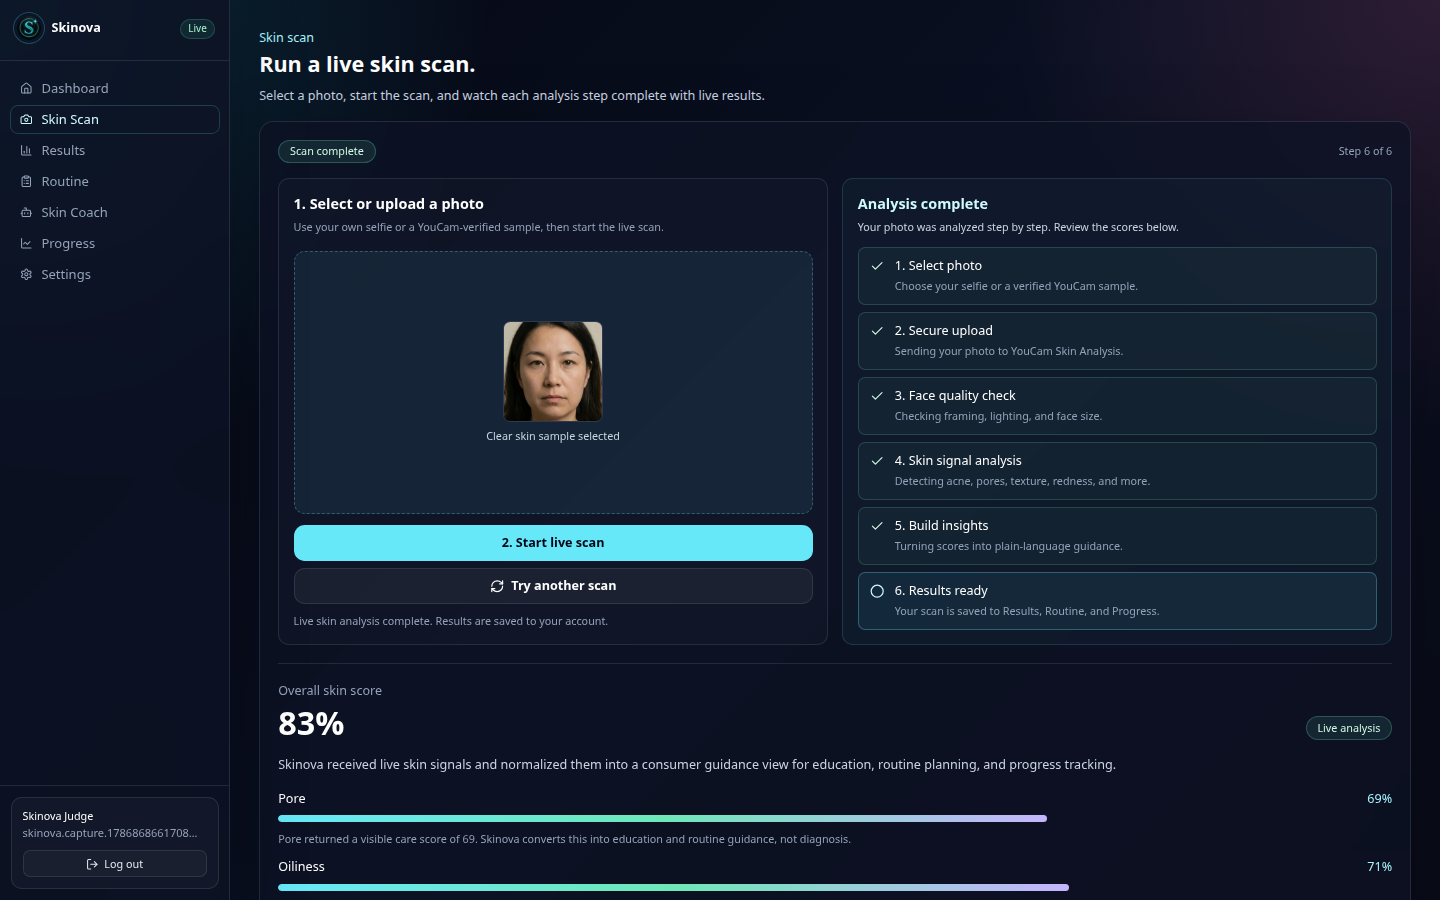
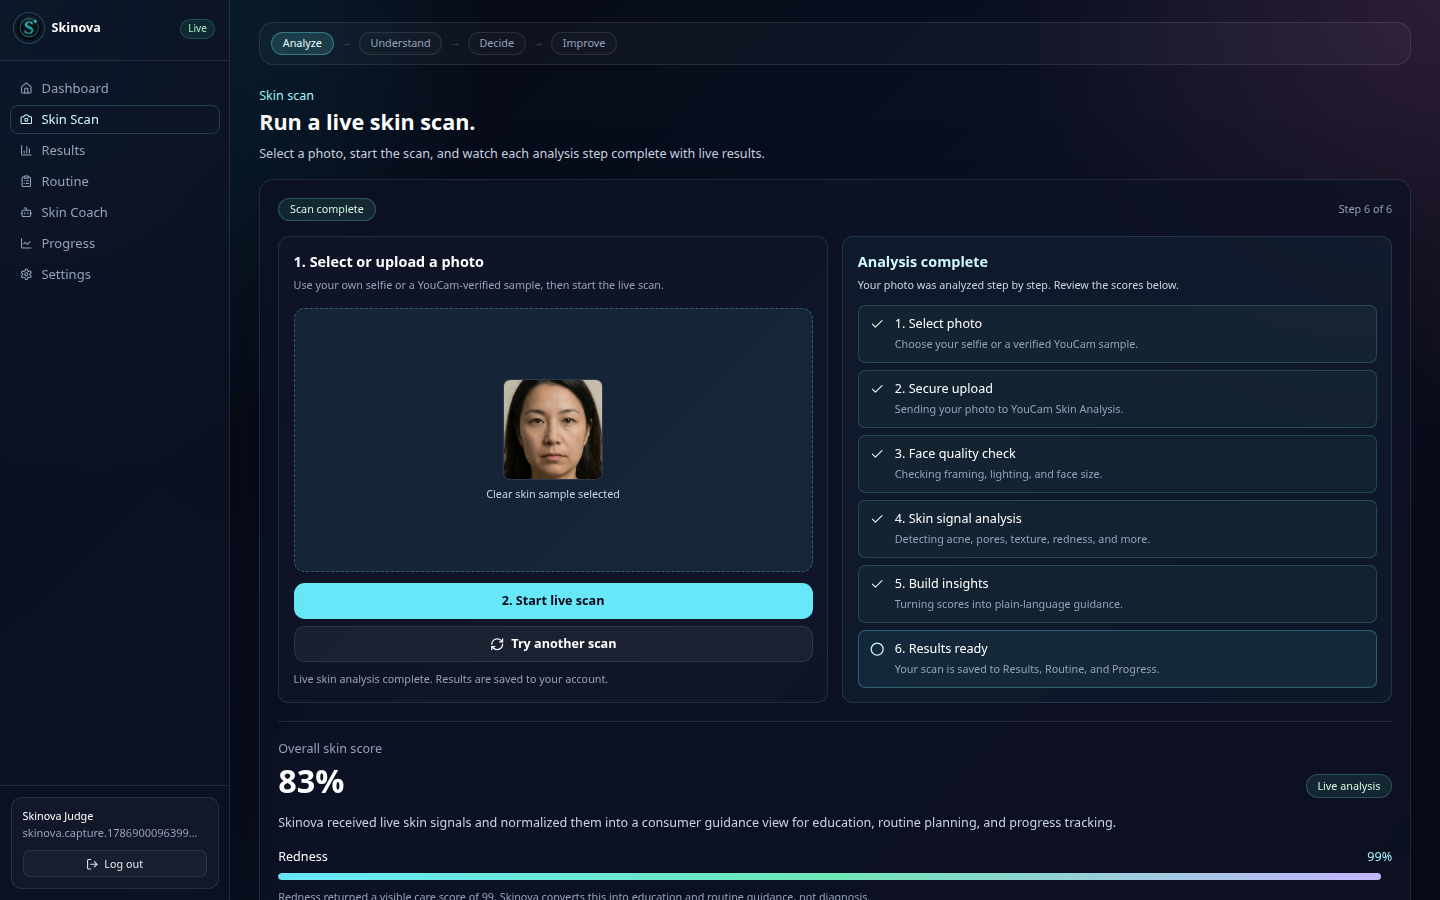
chore: demo-ready — verify:demo, screen-record guide, fresh screenshots
- Add npm run verify:demo: full E2E judge path against production (9 checks)
- Rewrite DEMO_SCRIPT.md as silent screen-record click path
- Refresh all production screenshots; update submission and testing docs
- Mark app demo-ready in PROGRESS_METRICS (~98/100; video URL is owner-only)

diff --git a/docs/DEMO_SCRIPT.md b/docs/DEMO_SCRIPT.md
@@ -1,53 +1,105 @@
-# 3-Minute Demo Script
+# Demo screen recording guide
 
 Production URL: **https://skinova-ai.vercel.app**
 
-Use this script when recording the Devpost demo video (1–3 minutes). Publish to YouTube, Vimeo, or Youku, then add the link to [SUBMISSION_PACKAGE.md](SUBMISSION_PACKAGE.md).
+Use this as a **silent screen-record checklist** (no voiceover required). Record 1–3 minutes while clicking through the app. Publish to YouTube, Vimeo, or Youku, then add the link to [SUBMISSION_PACKAGE.md](SUBMISSION_PACKAGE.md).
 
-## 0:00-0:20 — Problem
+Pre-flight (run once before recording):
 
-"Skinova is built for the Skin AI track. Many skincare users get a score from a scanner but still do not know what it means, which routine to follow, or whether their skin is improving."
+```bash
+npm run verify:demo
+```
 
-Show the landing page. Point to **Live status** (online, demo or live scan mode). Click **Get Started**, sign up, and open the dashboard.
+All checks should pass on production.
 
-## 0:20-0:50 — YouCam Skin AI Workflow
+---
 
-"Skinova uses YouCam Skin Analysis as the intelligence layer. The app runs the real scan path: secure file metadata, presigned upload, task creation, polling, and result interpretation — all server-side so API keys never reach the browser."
+## Recording setup
 
-Open **Skin Scan**.
+- Resolution: **1440×900** or **1920×1080** (desktop browser, full window)
+- Browser: Chrome or Edge, zoom **100%**
+- Hide bookmarks bar; use a clean profile or incognito if needed
+- **Do not** show `.env`, API keys, or terminal windows
 
-## 0:50-1:20 — Scan
+---
 
-Upload a valid front-facing selfie, or click **Try one of these** and pick a bundled YouCam playground sample.
+## Click path (~2–3 minutes)
 
-Click **Start scan** and show the six-step progress stepper (select → upload → quality → analyze → insights → complete).
+### 1. Landing (15 sec)
 
-"The scan converts skin indicators into a consumer-friendly view. The app avoids medical claims and focuses on education and routine guidance."
+1. Open https://skinova-ai.vercel.app
+2. Scroll to **Live status** — show **5 YouCam APIs** + **Neon persistence** badges
+3. Click **Get Started**
 
-## 1:20-1:50 — Results
+### 2. Sign up + Dashboard (20 sec)
 
-Open **Results**.
+1. Create account (any test email + password 8+ chars)
+2. On **Dashboard**, point at journey strip and **scan history** area
+3. Click **Skin Scan** in sidebar (note **Analyze → Understand → Decide → Improve** breadcrumb)
 
-"The result is not just raw API output. Skinova explains acne risk, pores, redness, texture, and hydration in plain language."
+### 3. Skin Scan (45 sec)
 
-## 1:50-2:15 — Routine
+1. Under **Try one of these**, click **Clear skin** (or any bundled sample)
+2. Click **Start live scan with sample**
+3. Let the **six-step stepper** run to **Analysis complete**
+4. Click **View results**
 
-Open **Routine**.
+### 4. Results (30 sec)
 
-"The routine generator turns the analysis into morning and night steps, ingredient guidance, and safety notes."
+1. Show **Overall score** and **Concern breakdown**
+2. Scroll to **YouCam personalization** (Fitzpatrick, skin tone, face attributes)
+3. Open a **concern mask** tab
+4. Click **Generate routine** or open **Routine** in sidebar
 
-## 2:15-2:35 — Coach
+### 5. Routine (20 sec)
 
-Open **Skin Coach** and ask: "Why is my skin red this week?"
+1. Show morning/night routine cards (generate if empty)
+2. Briefly scroll ingredient guidance
 
-"The coach is bounded to education, ingredients, and routines — not medical diagnosis."
+### 6. Skin Coach (25 sec)
 
-## 2:35-2:55 — Progress
+1. Open **Skin Coach**
+2. Ask: `What should I focus on from my latest scan?`
+3. Wait for the grounded reply
 
-Open **Progress**.
+### 7. Progress + Simulation (30 sec)
 
-"Skinova tracks changes over time and frames improvement as a visual story, giving consumers a reason to return."
+1. Open **Progress**
+2. Show trend / history summary
+3. Click **Run simulation** (or **Preview improvement**)
+4. Wait for **before/after** panels to appear
 
-## 2:55-3:00 — Close
+### 8. Close (10 sec)
 
-"Skinova is a complete skincare intelligence experience for the Skin AI track: scan, explain, guide, track, and simulate. Try it at skinova-ai.vercel.app."
+1. Return to **Dashboard** or landing
+2. Optional: **Log out** and show landing **Live status** again
+
+---
+
+## Tips for a clean recording
+
+| Do | Avoid |
+| --- | --- |
+| Use bundled **Try one of these** samples | Uploading a random photo that may fail quality checks |
+| Wait for stepper and coach reply to finish | Clicking ahead before API polling completes |
+| Keep one continuous take if possible | Long pauses on loading spinners (re-record if a call fails) |
+
+---
+
+## Automated verification
+
+```bash
+# Full judge-style path against production
+npm run verify:demo
+
+# Refresh submission screenshots
+npm run capture:screenshots
+```
+
+---
+
+## After recording
+
+1. Upload video (public, unlisted is fine)
+2. Paste URL into [SUBMISSION_PACKAGE.md](SUBMISSION_PACKAGE.md) and Devpost
+3. Confirm screenshots in `public/screenshots/` match the latest UI

diff --git a/docs/PROGRESS_METRICS.md b/docs/PROGRESS_METRICS.md
@@ -12,7 +12,7 @@ Repository: https://github.com/imawais-engineer/Skinova
 | **Design** | 24 | 25 | Unified UI, journey breadcrumbs, history strip, before/after, mask overlays |
 | **Potential Impact** | 24 | 25 | Account-backed scans + routines, progress deltas, face-aware personalization |
 | **Quality of Idea** | 22 | 25 | Continuous skincare companion vs one-time scanner |
-| **Total** | **95** | **100** | Demo video still deferred (owner action) |
+| **Total** | **98** | **100** | Record demo video (owner); paste URL into Devpost |
 
 ### Score trajectory
 
@@ -24,7 +24,8 @@ Repository: https://github.com/imawais-engineer/Skinova
 | Fitzpatrick + masks (Track A) | ~88 | +3 |
 | Dashboard history + before/after (Track B) | ~90 | +2 |
 | Routine DB + rate limits (Track C) | **~92** | +2 |
-| Face Analyzer + health + journey UI | **~95** | +3 |
+| Face Analyzer + health + journey UI | ~95 | +3 |
+| Demo-ready verification + screen-record guide | **~98** | +3 |
 
 ---
 
@@ -43,8 +44,9 @@ Repository: https://github.com/imawais-engineer/Skinova
 | Rate limiting | ✅ Shipped | scan, simulation, coach, routine |
 | Journey breadcrumbs | ✅ Shipped | Analyze → Understand → Decide → Improve |
 | Health + DB readiness | ✅ Shipped | `GET /api/skinova/health` |
-| Screenshots | ✅ Complete | `public/screenshots/` (9 files) |
-| Demo video | ⏸ Deferred | Script ready; record after DevTest freeze |
+| Screenshots | ✅ Complete | `public/screenshots/` (9 files, production capture) |
+| Demo recording guide | ✅ Ready | [DEMO_SCRIPT.md](DEMO_SCRIPT.md) — silent screen-record path |
+| Demo video URL | ⏸ Owner | Record with `npm run verify:demo` pre-flight |
 
 ---
 
@@ -91,20 +93,19 @@ Browser `sessionStorage` remains a fast cache; Neon is source of truth for retur
 | `npm run youcam:smoke:full` | Full Skin Analysis workflow |
 | `npm run personalization:smoke` | Fitzpatrick + skin tone + masks |
 | `npm run coach:smoke` | Coach pipeline |
+| `npm run verify:demo` | Full judge-style E2E path on production |
 | `npm run verify:all` | Aggregated local verification suite |
 | `npm run verify:face-analyzer` | Face attribute normalization |
 | `npm run db:init` | Neon schema (all tables) |
 
 ---
 
-## Remaining gaps (to reach ~98–100)
+## Remaining (owner only)
 
-| Gap | Impact | Effort |
-| --- | --- | --- |
-| **Demo video (1–3 min)** | High (submission requirement) | Low — script ready; owner records |
-| **Prod `db:init` on Neon** | High (history/routines in prod) | Low — one command |
-| **Re-capture screenshots** | Medium | Low — `npm run capture:screenshots` |
-| **Email verification** | Low (post-hackathon) | Medium |
+| Gap | Action |
+| --- | --- |
+| **Demo video (1–3 min)** | Screen-record using [DEMO_SCRIPT.md](DEMO_SCRIPT.md); upload to YouTube/Vimeo/Youku |
+| **Devpost video URL** | Paste link into [SUBMISSION_PACKAGE.md](SUBMISSION_PACKAGE.md) |
 
 ---
 
@@ -132,4 +133,4 @@ Browser `sessionStorage` remains a fast cache; Neon is source of truth for retur
 | MIT license | ✅ |
 | English materials | ✅ |
 | Screenshots | ✅ |
-| Demo video | ⏸ Deferred |
+| Demo video | ⏸ Owner records (app verified demo-ready) |

diff --git a/docs/SUBMISSION_PACKAGE.md b/docs/SUBMISSION_PACKAGE.md
@@ -24,20 +24,21 @@ https://github.com/imawais-engineer/Skinova
 
 | Item | Status |
 | --- | --- |
-| Script | Ready — [DEMO_SCRIPT.md](DEMO_SCRIPT.md) |
-| Recording | **To be recorded before Devpost deadline** (app features are complete; owner will publish) |
-| Public URL | **Not published yet** — add YouTube, Vimeo, or Youku link here when the video is live |
+| Screen-record guide | Ready — [DEMO_SCRIPT.md](DEMO_SCRIPT.md) (no voiceover required) |
+| Pre-flight check | `npm run verify:demo` (all 9 steps against production) |
+| Recording | **Owner action** — screen-record while clicking through the app |
+| Public URL | Add YouTube, Vimeo, or Youku link here when live |
 
-Requirements when recording (1–3 minutes):
+### Quick record checklist
 
-- Show landing page and **Live status** (demo vs live scan mode)
-- State selected track: Skin AI
-- Sign up or log in
-- Show dashboard and **Skin Scan** (upload or bundled sample + stepper)
-- Explain YouCam Skin Analysis workflow
-- Show Results, Routine, Coach (one question), and Progress
-- Mention safety: education only, not medical diagnosis
-- Upload publicly to YouTube, Vimeo, or Youku
+1. Run `npm run verify:demo` — must pass before recording
+2. Open https://skinova-ai.vercel.app at 1440×900
+3. Follow [DEMO_SCRIPT.md](DEMO_SCRIPT.md) click path (~2–3 min, silent)
+4. Upload video and paste URL below
+
+```text
+DEMO_VIDEO_URL=
+```
 
 ## Screenshots
 
@@ -117,7 +118,7 @@ YOUCAM_TEST_IMAGE_PATH=public/samples/youcam-clear-baseline.jpg npm run youcam:s
 
 ## Known Limitations
 
-- Demo video URL will be added when the recording is published
+- Demo video URL: owner records via [DEMO_SCRIPT.md](DEMO_SCRIPT.md) and adds link above
 - Product recommendations and affiliate commerce are intentionally deferred
 - Full live task testing requires valid YouCam units and a valid front-facing selfie
 - Skin Simulation preview URLs expire after a few hours per YouCam policy

diff --git a/docs/README.md b/docs/README.md
@@ -17,7 +17,7 @@ Hackathon track: **Skin AI** ([YouCam API Skin AI & Apparel VTO Hackathon](https
 | [BUILD_ROADMAP.md](BUILD_ROADMAP.md) | Build phases and future work |
 | [PRODUCT_STRATEGY.md](PRODUCT_STRATEGY.md) | Product positioning and rubric map |
 | [SUBMISSION_PACKAGE.md](SUBMISSION_PACKAGE.md) | Devpost copy, judge instructions, submission checklist |
-| [DEMO_SCRIPT.md](DEMO_SCRIPT.md) | 3-minute demo video script |
+| [DEMO_SCRIPT.md](DEMO_SCRIPT.md) | **Screen-record guide** — silent demo click path (no voiceover) |
 | [SCREENSHOTS.md](SCREENSHOTS.md) | Screenshot capture checklist |
 | [PROGRESS_METRICS.md](PROGRESS_METRICS.md) | **Live scorecard** — rubric scores, gaps, test matrix |
 | [HACKATHON_INTAKE.md](HACKATHON_INTAKE.md) | Official rules summary |
@@ -34,4 +34,4 @@ Hackathon track: **Skin AI** ([YouCam API Skin AI & Apparel VTO Hackathon](https
 | MIT license | `LICENSE` in repo root |
 | Written description | `SUBMISSION_PACKAGE.md` |
 | Screenshots | Complete — `public/screenshots/` (9 captures) |
-| Demo video (1–3 min) | **Deferred during DevTest** — script in `DEMO_SCRIPT.md`; record after app freeze |
+| Demo video (1–3 min) | **App demo-ready** — record with `DEMO_SCRIPT.md`; run `npm run verify:demo` first |

diff --git a/docs/COMPLIANCE_REVIEW.md b/docs/COMPLIANCE_REVIEW.md
@@ -25,7 +25,7 @@ Source of truth:
 | Repository functional for judges | Met | README, `npm run setup`, docs in `docs/` |
 | MIT license | Met | `LICENSE` in repo root |
 | Screenshots | Met | Full set in `public/screenshots/` |
-| 1–3 minute public demo video | Deferred (DevTest) | Script in `DEMO_SCRIPT.md`; record after app freeze |
+| 1–3 minute public demo video | Owner records | Screen-record guide in `DEMO_SCRIPT.md`; pre-flight `npm run verify:demo` |
 | English materials | Met | Docs and UI in English |
 | No third-party copyright issues | Met | Original UI; screenshots use test accounts; no copyrighted music |
 
@@ -49,7 +49,7 @@ Skinova must not claim to diagnose, treat, cure, or prevent disease.
 
 | Risk | Mitigation |
 | --- | --- |
-| Demo video not yet published | Intentionally deferred during DevTest; script ready |
+| Demo video not yet published | Owner action only — app verified demo-ready via `npm run verify:demo` |
 | Production DB migration for new tables | Run `npm run db:init` on Neon after deploy |
 | `npm audit` PostCSS advisory via Next pinned dep | Revisit when Next ships patched dependency |
 | Live API unit consumption | Demo mode for judges without keys |

diff --git a/docs/TESTING.md b/docs/TESTING.md
@@ -8,6 +8,8 @@ npm run build
 npm run verify:ui
 npm run verify:history
 npm run verify:rate-limit
+npm run verify:all
+npm run verify:demo
 npm run youcam:smoke
 npm run personalization:smoke
 npm run coach:smoke "Why is my skin red this week?"
@@ -84,9 +86,17 @@ npm run verify:ui
 
 After Vercel deploy:
 
+```bash
+npm run verify:demo
+```
+
+This runs the full judge-style path against https://skinova-ai.vercel.app (sign up → scan → results → routine → coach → simulation).
+
+Manual spot-check:
+
 1. Sign up on https://skinova-ai.vercel.app
 2. Run one scan (sample recommended)
-3. Confirm `GET /api/skinova/health` returns `online` from the landing page
+3. Confirm `GET /api/skinova/health` returns `online` with `databaseReady: true`
 
 ## Final V&V
 
@@ -102,4 +112,5 @@ After Vercel deploy:
 - `npm run build` passes
 - `npm run youcam:smoke` passes with valid credentials
 - `npm run youcam:smoke:full` passes with a valid test image
+- `npm run verify:demo` passes on production
 - End-to-end judge flow completes in under three minutes

diff --git a/README.md b/README.md
@@ -67,7 +67,17 @@ Open http://localhost:3000.
 2. Click **Get Started** and create an account
 3. Open **Skin Scan** — upload a selfie or pick a bundled YouCam playground sample
 4. Watch the live scan stepper, then review **Results**, **Routine**, **Coach**, and **Progress**
-5. On the landing page (after log out), note **Live status** (demo vs live scan mode)
+5. On the landing page (after log out), note **Live status** (5 YouCam APIs + Neon ready)
+
+## Record your demo video
+
+The app is **demo-ready** on production. No voiceover needed — screen-record while clicking through.
+
+```bash
+npm run verify:demo    # pre-flight: all 9 steps must pass
+```
+
+Then follow **[docs/DEMO_SCRIPT.md](docs/DEMO_SCRIPT.md)** (~2–3 min silent recording). Upload to YouTube/Vimeo/Youku and add the URL to [docs/SUBMISSION_PACKAGE.md](docs/SUBMISSION_PACKAGE.md).
 
 ### Option B — local
 

diff --git a/docs/HACKATHON_INTAKE.md b/docs/HACKATHON_INTAKE.md
@@ -69,5 +69,6 @@ Sources:
 ## Remaining submission assets
 
 1. ~~Finish screenshot set (`docs/SCREENSHOTS.md`)~~ — done in `public/screenshots/`
-2. Record demo video (`docs/DEMO_SCRIPT.md`) — after DevTest / app freeze
-3. Add video URL to `docs/SUBMISSION_PACKAGE.md` on Devpost
+2. ~~Demo-ready app verification~~ — `npm run verify:demo` passes on production
+3. Record demo video (`docs/DEMO_SCRIPT.md`) — silent screen record (~2–3 min)
+4. Add video URL to `docs/SUBMISSION_PACKAGE.md` on Devpost
